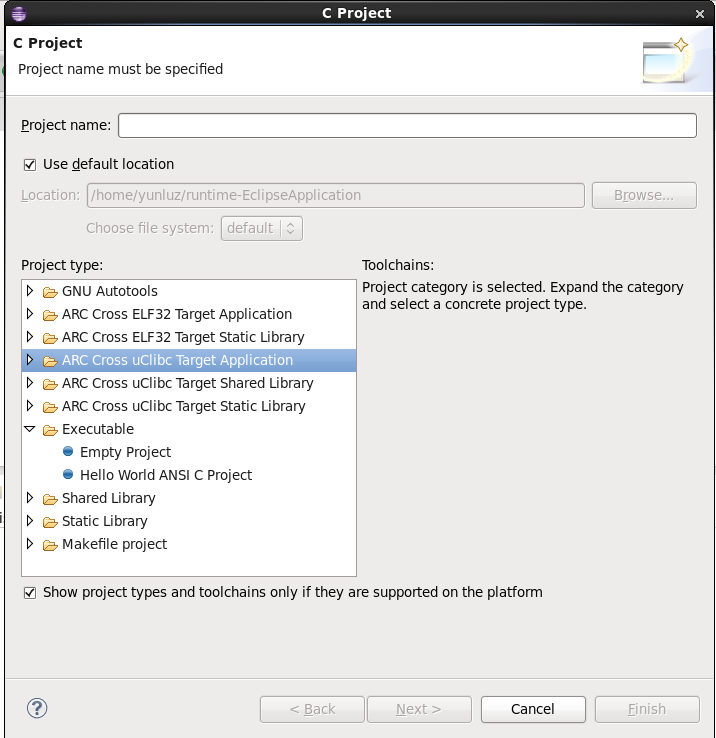
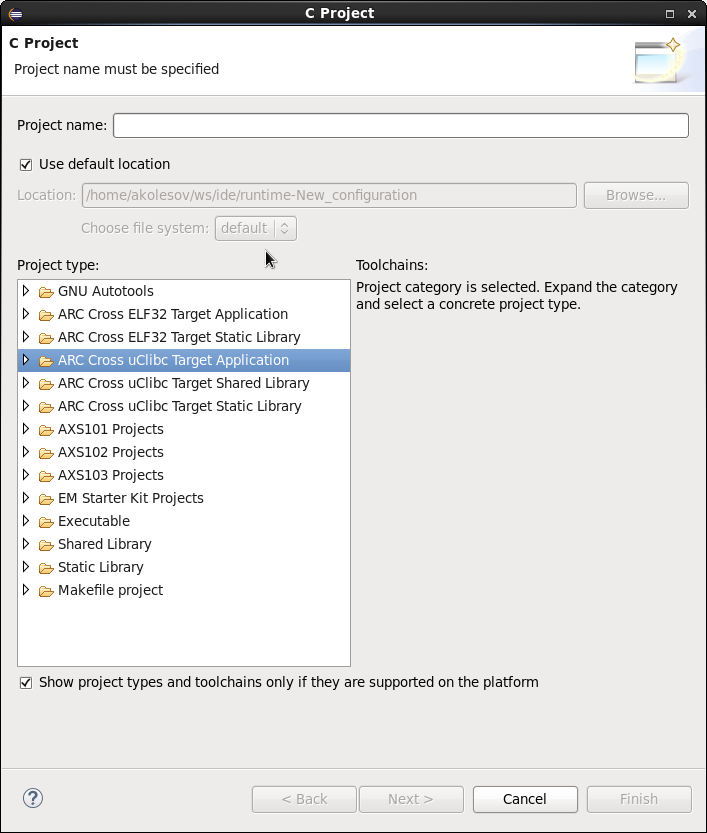
Update screenshots for Linux uClibc toolchain
Currently it is not possible to see both HS and 700 Linux toolchains at a
time, as it was shown in old screenshots.

Changed region(s): [[0.0, 0.0, 1.0, 1.0], [0.8091, 0.2182, 0.9335, 0.2805], [0.0, 0.9038, 0.0311, 0.935]]

diff --git a/Building-Linux-uClibc-applications.md b/Building-Linux-uClibc-applications.md
@@ -17,7 +17,7 @@ Choosing toolchain
 ------------------
 
 1. Choose proper toolchain for uClibc project type.
-    ![uClibc supported toolchain](images/uclibc/uclibc_toolchains.jpg)
+    ![uClibc supported toolchain](images/uclibc/uclibc_toolchain.png)
 
     _uClibc supported toolchain_
 
@@ -29,9 +29,9 @@ User should choose a proper toolchain for a core, for different core supports di
 Compiling a uClibc application
 ------------------------------
 1. Select File >New >C Project
-    ![Hello_uClibc_Application_700](images/uclibc/hello_uclibc_application_700.png)
+    ![Hello_uClibc_Application](images/uclibc/hello_uclibc_application.png)
 
-    _Hello_uClibc_Application_700_
+    _Hello_uClibc_Application_
 2. Getting compiling output in console
     ![Hello_uClibc_Application_700_output](images/uclibc/hello_uclibc_application_700_output.png)
 
@@ -40,9 +40,9 @@ Compiling a uClibc application
 Compiling a uClibc Static Library
 ---------------------------------
 1. Select File >New >C Project
-    ![Hello_uClibc_Staticlib_700](images/uclibc/hello_uclibc_staticlib_700.png)
+    ![Hello_uClibc_Staticlib](images/uclibc/hello_uclibc_staticlib.png)
 
-    _Hello_uClibc_Staticlib_700_
+    _Hello_uClibc_Staticlib_
 2. Getting compiling output in console
     ![Hello_uClibc_Staticlib_700_output](images/uclibc/hello_uclibc_staticlib_700_output.png)
 
@@ -51,9 +51,9 @@ Compiling a uClibc Static Library
 Compiling a uClibc Shared Library
 ---------------------------------
 1. Select File >New >C Project
-    ![Hello_uClibc_Sharedlib_700](images/uclibc/hello_uclibc_sharedlib_700.png)
+    ![Hello_uClibc_Sharedlib](images/uclibc/hello_uclibc_sharedlib.png)
 
-    _Hello_uClibc_Sharedlib_700_
+    _Hello_uClibc_Sharedlib_
 2. Getting compiling output in console
     ![Hello_uClibc_Sharedlib_700_output](images/uclibc/hello_uclibc_sharedlib_700_output.png)
 
